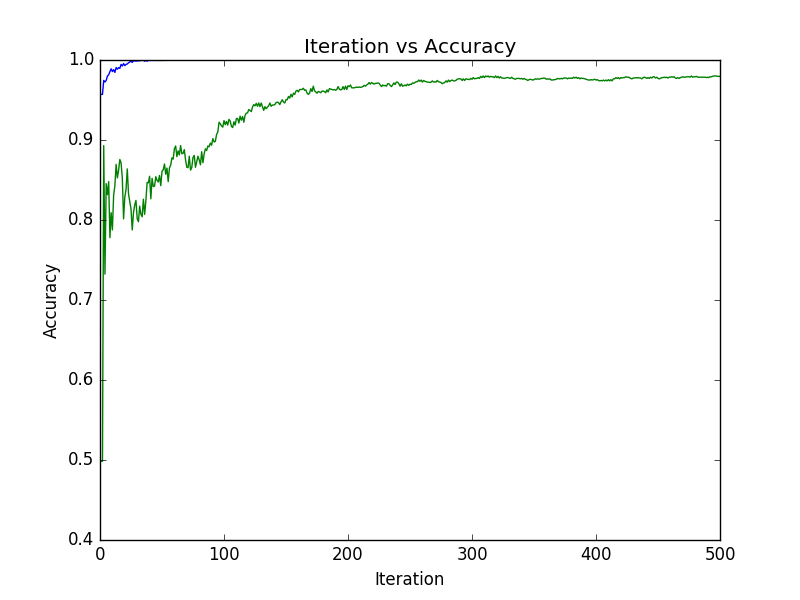
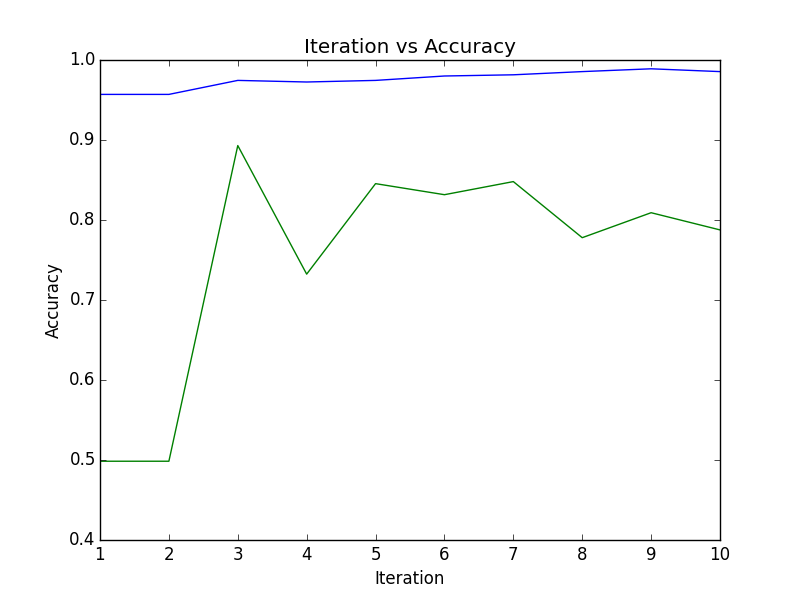
add comments and part b

diff --git a/HW4/AdaBoost.py b/HW4/AdaBoost.py
@@ -47,17 +47,17 @@ class AdaBoost:
         :param labels: array of labels
         """
 
-
-
         for t in range(self._T):
-
+            # Each iteration we will update the params
             best_hypo_type = 0
             best_theta = 0
             best_weighted_acc = 0
             best_pixel_idx = 0
 
             for pixel_idx in range(self._nof_features):
-
+                # Foreach pixel (of 782) and each hypothesis type (-1 or 1) we will calc the theta and the weighted acc
+                # We will save the best hypo and the best theta for each pixel index and hypo and we will update
+                # the distribution accordingly
                 for hypo_type in [-1, 1]:
                     theta, weighted_acc = self._find_best_hypo(xs, pixel_idx, labels, hypo_type=hypo_type)
 
@@ -68,13 +68,17 @@ class AdaBoost:
                         best_weighted_acc = weighted_acc
                         best_pixel_idx = pixel_idx
 
+            # Calc the epsilon which is the error
             epsilon = 1 - best_weighted_acc
+            # Calc alpha
             a = 0.5 * math.log(best_weighted_acc / epsilon)
+            # Calc the prediction for the distribution
             pixel_vals = xs[:, best_pixel_idx]
             predication_low_theta = (pixel_vals <= best_theta) * 1.0
             predication_after_theta = (pixel_vals > best_theta) * -1.0
             predication_theta = predication_low_theta + predication_after_theta
             predication_theta *= best_hypo_type
+            # Update the distribution
             self._dist_arr *= math.e ** (predication_theta * labels * a * -1.0)
             self._dist_arr /= np.sum(self._dist_arr)
 
@@ -83,12 +87,12 @@ class AdaBoost:
 
     def _find_best_hypo(self, xs, pixel_idx, labels, hypo_type):
         """
-        This function implements finding best hypothesis
+        This function implements finding best hypothesis which return theta and weighted accuracy
         :param xs: xs data
         :param pixel_idx: pixel index
         :param labels: labels array
         :param hypo_type: hypothesis type is 1 or -1 according to the ex. input
-        :return:
+        :return: theta, weighted accuracy
         """
 
         # Sorted xs per pixel index (channel wise)
@@ -111,12 +115,19 @@ class AdaBoost:
         curr_weighted_acc = best_weighted_acc
 
         for sample_idx in sorted_indx:
+            # Foreach sample index in the sorted index we will calc his current theta and weighted acc dynamically
             if pixel_vals[sample_idx] == pixel_vals[sorted_indx[0]]:
                 continue
+
+            # Our starting theta is the current pixel
             curr_theta = xs[sample_idx][pixel_idx]
+            # Our starting weighted accuracy is calc according to the distribution of sample index
             curr_weighted_acc += labels[sample_idx] * self._dist_arr[sample_idx] * hypo_type
+            # For debugging purpose
             if curr_weighted_acc > 1:
-                print 'error'
+                print 'Error'
+
+            # Each progress we will the best weighted acc and best theta
             if curr_weighted_acc > best_weighted_acc:
                 best_weighted_acc = curr_weighted_acc
                 best_theta = curr_theta
@@ -125,7 +136,7 @@ class AdaBoost:
 
     def _update_params(self, t, a, best_theta, best_hypo_type, best_pixel_idx):
         """
-        This function updates the params
+        This function updates the params in the arrays
         :param t: iteration t
         :param a: alpha
         :param best_theta: the best theta
@@ -149,11 +160,21 @@ class AdaBoost:
         :return:
         """
 
+        # Size of samples
+        m = test_data.shape[0]
+        # The prediction
         predictions = self._predict(test_data, iterations)
-        acc_arr = predictions * test_labels
+        # This prediction is for the accuracy plots: sign( sigma(j=1..m) alpha_j*hypo_j) )
+        acc_predication = np.sign(predictions)
+        # This prediction is for the calculating the loss
+        loss_prediction = predictions * test_labels * -1.0
+        loss_arr = math.e ** loss_prediction
+        loss = np.sum(loss_arr) / m
+        # Calculating the accuracy
+        acc_arr = acc_predication * test_labels
         acc_arr[acc_arr < 0] = 0
-        acc = np.sum(acc_arr) / test_data.shape[0]
-        return acc
+        acc = np.sum(acc_arr) / m
+        return acc, loss
 
     def _predict(self, test_data, iterations):
         """
@@ -175,4 +196,4 @@ class AdaBoost:
             predication_theta *= self._hypo_type[t]
             total_predication += self._alpha[t] * predication_theta
 
-        return np.sign(total_predication)
+        return total_predication

diff --git a/HW4/q5.py b/HW4/q5.py
@@ -12,7 +12,7 @@ import matplotlib.pyplot as plt
 from HW4.AdaBoost import AdaBoost
 
 # Training params
-ITERS = 500
+ITERS = 300
 
 
 def get_train_validation_test_data():
@@ -64,6 +64,27 @@ def plot_graph(error_lst, x_lst, file_name='', label='', title='', ylabel='', xl
     plt.savefig('{}.png'.format(file_name))
 
 
+def part_a(t_lst, acc_test_lst, acc_train_lst):
+    """
+    This function implements part a.
+    This function will plot Iteration Vs Accuracy training and testing error
+    """
+
+    plt.figure()
+    plot_graph(acc_train_lst, t_lst, "q5_part_a", "", "Iteration vs Accuracy", "Accuracy", "Iteration")
+    plot_graph(acc_test_lst, t_lst, "q5_part_a", "", "Iteration vs Accuracy", "Accuracy", "Iteration")
+
+
+def part_b(t_lst, loss_test_lst, loss_train_lst):
+    """
+    This function implements part b.
+    This function will plot Iteration Vs Accuracy training and testing error
+    """
+
+    plt.figure()
+    plot_graph(loss_test_lst, t_lst, "q5_part_b", "", "Iteration vs Loss", "Loss", "Iteration")
+    plot_graph(loss_train_lst, t_lst, "q5_part_b", "", "Iteration vs Loss", "Loss", "Iteration")
+
 if __name__ == '__main__':
     # Get train, validation and test data
     org_train, org_train_labels, org_test, org_test_labels = get_train_validation_test_data()
@@ -71,16 +92,20 @@ if __name__ == '__main__':
     ada_boost.train(org_train, org_train_labels)
 
     acc_test_lst = []
+    loss_test_lst = []
     acc_train_lst = []
+    loss_train_lst = []
     t_lst = range(1, ITERS + 1)
     for t in t_lst:
-        acc_test = ada_boost.test(org_test, org_test_labels, iterations=t)
+        acc_test, loss_test = ada_boost.test(org_test, org_test_labels, iterations=t)
         acc_test_lst.append(acc_test)
-        acc_train = ada_boost.test(org_train, org_train_labels, iterations=t)
+        loss_test_lst.append(loss_test)
+        acc_train, loss_train = ada_boost.test(org_train, org_train_labels, iterations=t)
         acc_train_lst.append(acc_train)
-        print 'T {} - Train Acc {}, Test Acc {}'.format(t, acc_train, acc_test)
+        loss_train_lst.append(loss_train)
+        print 'T {} - Train Acc {}, Test Acc {}, Test Loss {}, Train Loss {}'.format(t, acc_train, acc_test, loss_test,
+                                                                                     loss_train)
 
-    plt.figure()
-    plot_graph(acc_train_lst, t_lst, "q5_part_a", "", "Iteration vs Accuracy", "Accuracy", "Iteration")
-    plot_graph(acc_test_lst, t_lst, "q5_part_a", "", "Iteration vs Accuracy", "Accuracy", "Iteration")
+    part_a(t_lst, acc_test_lst, acc_train_lst)
+    part_b(t_lst, loss_test_lst, loss_train_lst)
     print 'end'
